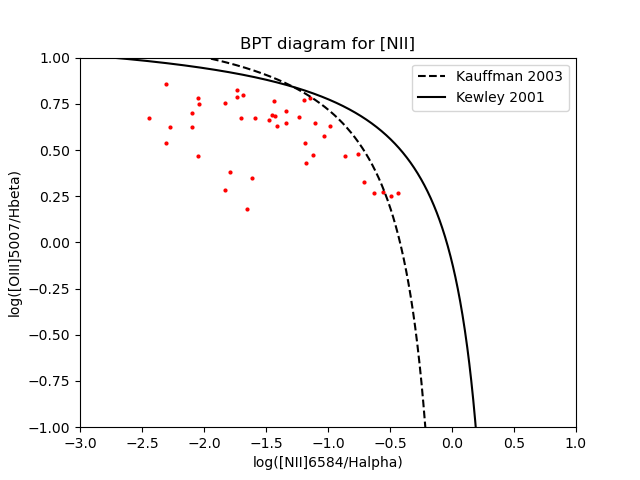
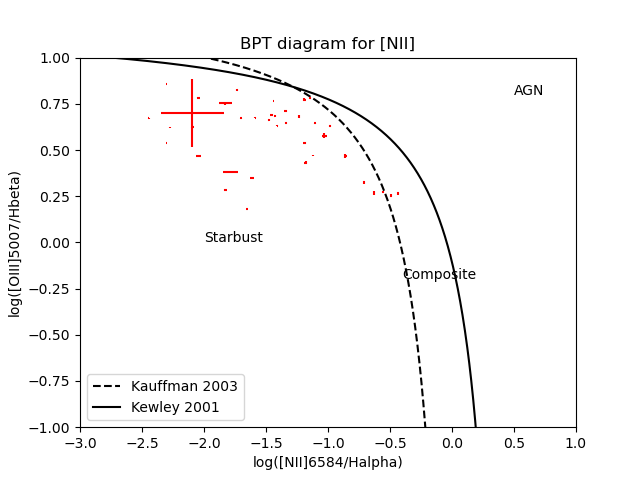
Updated BPT diagrams with errorbars & labels of ionisation sources

diff --git a/BPT diagrams/BPT plots.py b/BPT diagrams/BPT plots.py
@@ -45,31 +45,40 @@ def extract_and_plot():
     h_b_err_down = pd.read_excel(filepath, usecols = "AP", skiprows = 0).to_numpy().flatten()
     h_a_err_down = pd.read_excel(filepath, usecols = "BN", skiprows = 0).to_numpy().flatten()
 
+    #average errors
+
+    o_iii_5007_err = (o_iii_5007_err_down + o_iii_5007_err_up) / 2
+    n_ii_6584_err = (n_ii_6584_err_down + n_ii_6584_err_up) / 2
+    s_ii_6717_err = (s_ii_6717_err_down + s_ii_6717_err_up) / 2
+    s_ii_6731_err = (s_ii_6731_err_down + s_ii_6731_err_up) / 2
+    o_i_6300_err = (o_i_6300_err_down + o_i_6300_err_up) / 2
+    h_b_err = (h_b_err_down + h_b_err_up) / 2
+    h_a_err = (h_a_err_down + h_a_err_up) / 2
+    
 
     #add sulphur doublet line intensities together to get combined intensity
 
     s_ii_6717_31 = s_ii_6717 + s_ii_6731
-    s_ii_6717_31_err_up = np.sqrt(s_ii_6717_err_up **2 + s_ii_6731_err_up ** 2)
-    s_ii_6717_31_err_down = np.sqrt(s_ii_6717_err_down **2 + s_ii_6731_err_down ** 2)
+    s_ii_6717_31_err = np.sqrt(s_ii_6731_err**2 + s_ii_6717_err**2)
     
-
-    #Get axis data 
-    x_tl = np.log10(n_ii_6584/h_a)
-    x_tl_err_up = x_tl * np.sqrt((n_ii_6584_err_up ** 2 / n_ii_6584 **2) + (h_a_err_up **2 / h_a **2 ))
-    x_tl_err_down = x_tl * np.sqrt((n_ii_6584_err_down ** 2 / n_ii_6584 **2) + (h_a_err_down **2 / h_a **2 ))
+    #Get axis data for the BPT diagrams
+    #Top left
+    nii_ha = np.log10(n_ii_6584/h_a)
+    nii_ha_err = np.sqrt((n_ii_6584_err/n_ii_6584) **2 + (h_a_err/h_a)**2) / np.log(10)
     
-    x_tr = np.log10(s_ii_6717_31/h_a)
-    x_tr_err_up = x_tr * np.sqrt((s_ii_6717_31_err_up ** 2 / s_ii_6717_31 **2) + (h_a_err_up **2 / h_a **2 ))
-    x_tr_err_down = x_tr * np.sqrt((s_ii_6717_31_err_down ** 2 / s_ii_6717_31 **2) + (h_a_err_down **2 / h_a **2 ))
+    #Top right
+    sii_ha = np.log10(s_ii_6717_31/h_a)
+    sii_ha_err = np.sqrt((s_ii_6717_31_err/s_ii_6717_31) **2 + (h_a_err/h_a)**2) / np.log(10)
 
-    x_b = np.log10(o_i_6300/h_a)
-    x_b_err_up = x_b * np.sqrt((o_i_6300_err_up ** 2 / o_i_6300 **2) + (h_a_err_up **2 / h_a **2 ))
-    x_b_err_down = x_b * np.sqrt((o_i_6300_err_down ** 2 / o_i_6300 **2) + (h_a_err_down **2 / h_a **2 ))
+    #Bottom
+    oi_ha = np.log10(o_i_6300/h_a)
+    oi_ha_err = np.sqrt((o_i_6300_err/o_i_6300) **2 + (h_a_err/h_a)**2) / np.log(10)
     
-    y = np.log10(o_iii_5007/h_b)
-    y_err_up = y * np.sqrt((o_iii_5007_err_up ** 2 / o_iii_5007 **2) + (h_b_err_up **2 / h_b **2 ))
-    y_err_down = y * np.sqrt((o_iii_5007_err_down ** 2 / o_iii_5007 **2) + (h_b_err_down **2 / h_b **2 ))
+    #y-axis
+    oiii_hb = np.log10(o_iii_5007/h_b)
+    oiii_hb_err = np.sqrt((o_iii_5007_err/o_iii_5007) **2 + (h_b_err/h_b)**2) / np.log(10)
 
+    
     x_kauff = np.linspace(-3, 0, 1000)
     y_kauff = n2kauffmann(x_kauff)
 
@@ -79,13 +88,15 @@ def extract_and_plot():
     y_kewleyo1 = o1kewley(x_kewley)
 
     #plot
-    
-    plt.scatter(x_tl, y, s = 4, c = "r")
+    #NII BPT diagram
     plt.plot(x_kauff, y_kauff, linestyle = "--", c = "k", label = "Kauffman 2003")
     plt.plot(x_kewley, y_kewleyn2, linestyle = "-", c = "k", label = "Kewley 2001")
-    #plt.errorbar(x_tl, y, yerr = [y_err_down / (np.log(10) * y), y_err_up  / (np.log(10) * y)], xerr = [x_tl_err_down / (np.log(10)*x_tl), x_tl_err_up /(np.log(10)*x_tl)], fmt='none', ecolor= "r")
+    plt.errorbar(nii_ha, oiii_hb, yerr = oiii_hb_err, xerr = nii_ha_err, fmt='none', ecolor= "r")
     plt.xlabel("log([NII]6584/Halpha)")
     plt.ylabel("log([OIII]5007/Hbeta)")
+    plt.text(-2, 0, "Starbust")
+    plt.text(-0.4, -0.2, "Composite")
+    plt.text(0.5, 0.8, "AGN")
     plt.xlim(-3, 1)
     plt.ylim(-1, 1)
     plt.title("BPT diagram for [NII]")
@@ -93,13 +104,15 @@ def extract_and_plot():
     plt.savefig("BPT_NII.png")
     plt.show()
 
-
-    plt.scatter(x_tr, y, s = 4, c = "g")
+    #SII BPT diagram
     plt.plot(x_kewley, y_kewleys2, linestyle = "-", c = "k", label = "Kewley 2001")
-    #plt.errorbar(x_tr, y, yerr = [y_err_down / (np.log(10) * y), y_err_up  / (np.log(10) * y)], xerr = [x_tr_err_down / (np.log(10)*x_tr), x_tr_err_up /(np.log(10)*x_tr)], fmt='none', ecolor= "g")
-    
+    plt.errorbar(sii_ha, oiii_hb, yerr = oiii_hb_err, xerr = sii_ha_err, fmt='none', ecolor= "g")
     plt.xlabel("log([SII]6717,31/Halpha)")
     plt.ylabel("log([OIII]5007/Hbeta)")
+    plt.text(-2.5, -0.5, "Starburst")
+    plt.text(0.3, -0.5, "LI(N)ER")
+    plt.text(-0.2, 0.9, "Seyfert")
+    plt.text
     plt.xlim(-3, 1)
     plt.ylim(-1, 1)
     plt.title("BPT diagram for [SII]")
@@ -107,20 +120,20 @@ def extract_and_plot():
     plt.savefig("BPT_SII.png")
     plt.show()
 
-    plt.scatter(x_b, y, s = 4, c = "b")
+    #OI BPT diagram
     plt.plot(x_kewley, y_kewleyo1, linestyle = "-", c = "k", label = "Kewley 2001")
-    #plt.errorbar(x_b, y, yerr = [y_err_down / (np.log(10) * y), y_err_up  / (np.log(10) * y)], xerr = [x_b_err_down / (np.log(10)*x_b), x_b_err_up /(np.log(10)*x_b)], fmt='none', ecolor= "b")
-    plt.xlabel("log([NII]6584/Halpha)")
+    plt.errorbar(oi_ha, oiii_hb, yerr = oiii_hb_err, xerr = oi_ha_err, fmt='none', ecolor= "b")
+    plt.xlabel("log([OI]6300}/Halpha)")
     plt.ylabel("log([OIII]5007/Hbeta)")
+    plt.text(-2.5, -0.5, "Starburst")
+    plt.text(-1, -0.1, "LI(N)ER")
+    plt.text(-1.5, 0.74, "Seyfert")
     plt.xlim(-3, -0.7)
     plt.ylim(-1, 1)
     plt.title("BPT diagram for [OI]")
     plt.legend()
     plt.savefig("BPT_OI.png")
     plt.show()
-    
-
-    
 
 def main():
     extract_and_plot()
